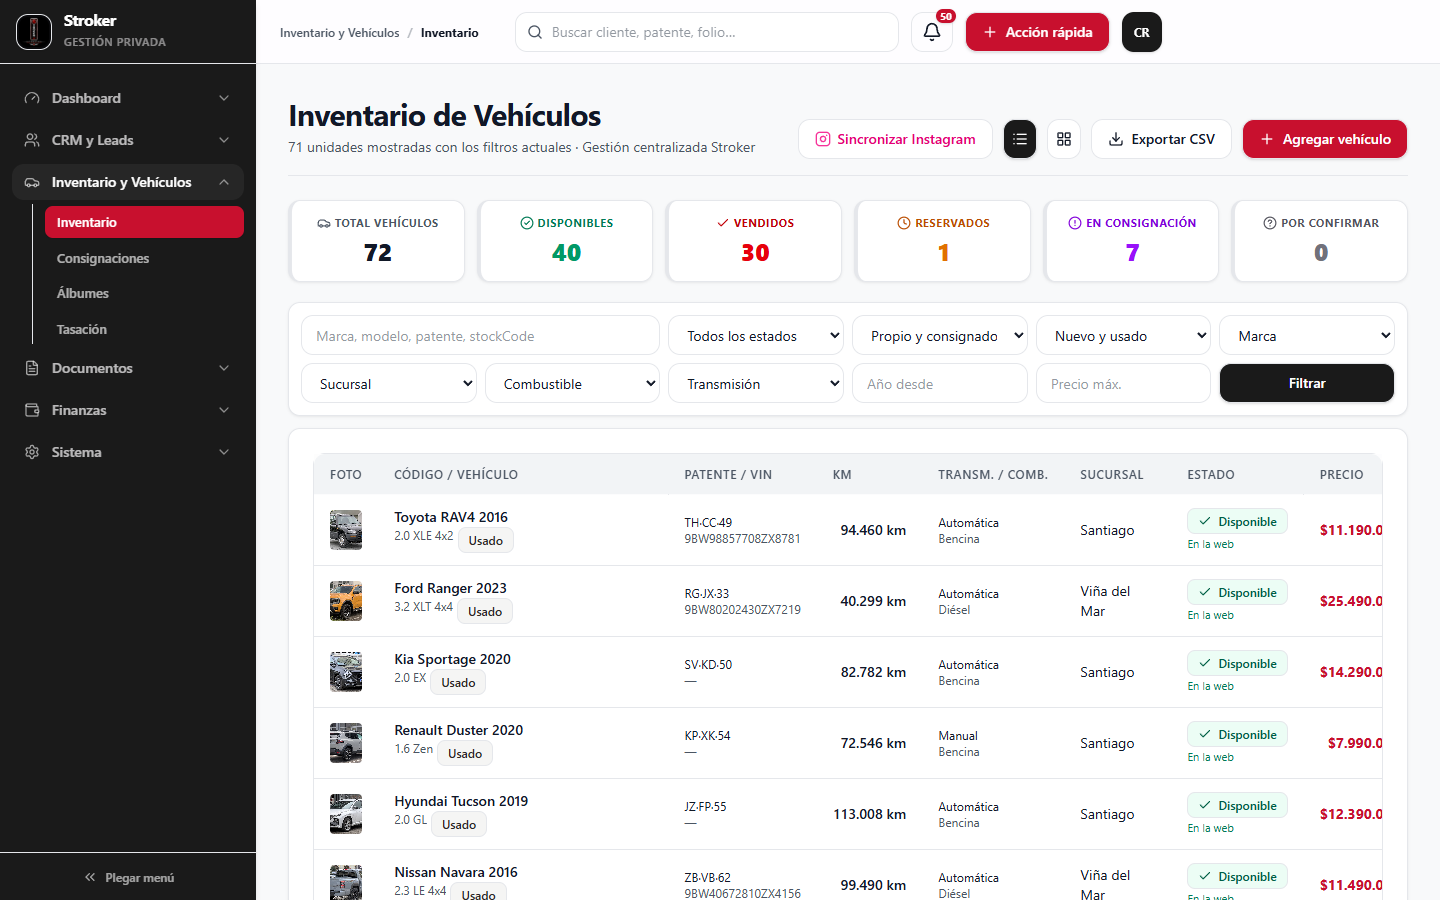
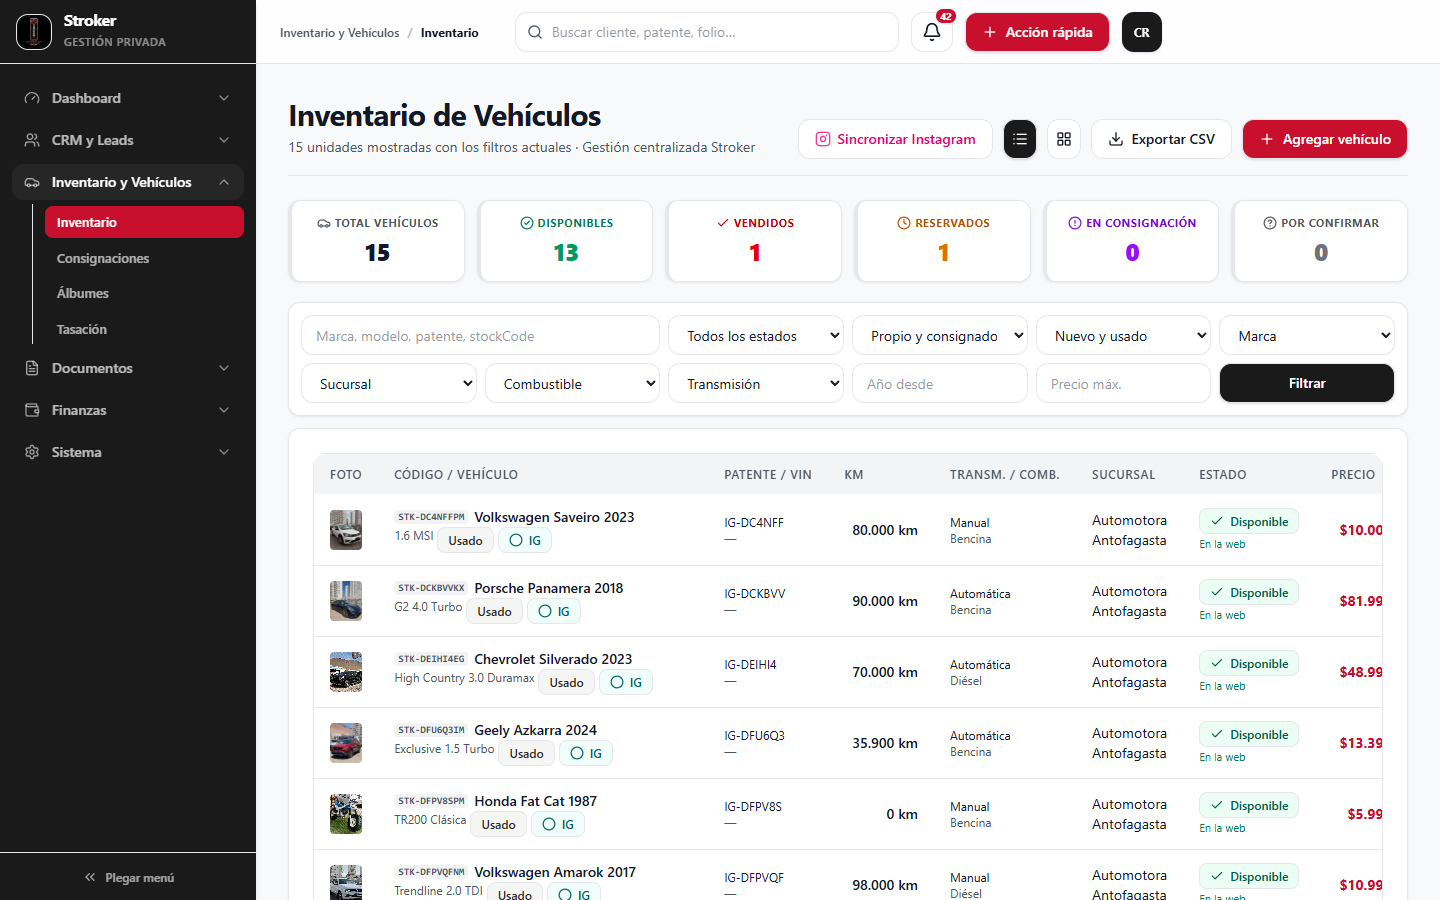
feat: show exactly 2 photos per vehicle in catalog and details

diff --git a/src/app/(web)/site.tsx b/src/app/(web)/site.tsx
@@ -133,14 +133,37 @@ export function Availability({ status }: { status: string }) {
 
 export function VehicleCard({ v, href }: { v: PublicVehicle; href: (p: string) => string }) {
   const isVendido = v.status === "VENDIDO";
+  const photo1 = v.photos[0]?.url || "/demo/placeholder.svg";
+  const photo2 = v.photos[1]?.url;
   return (
     <Link href={href(`/autos/${v.slug}`)} className={`card group overflow-hidden transition-all duration-200 hover:shadow-lg ${isVendido ? "opacity-90 grayscale-[25%]" : ""}`}>
-      <div className="relative">
+      <div className="relative aspect-[4/3] w-full overflow-hidden bg-surface-2">
         {/* eslint-disable-next-line @next/next/no-img-element */}
-        <img src={cover(v)} alt={`${v.brand} ${v.model} ${v.year}`} className="aspect-[4/3] w-full object-cover transition-transform duration-300 group-hover:scale-105" loading="lazy" />
+        <img
+          src={photo1}
+          alt={`${v.brand} ${v.model} ${v.year}`}
+          className={`absolute inset-0 size-full object-cover transition-all duration-300 ${photo2 ? "group-hover:opacity-0" : "group-hover:scale-105"}`}
+          loading="lazy"
+        />
+        {photo2 && (
+          // eslint-disable-next-line @next/next/no-img-element
+          <img
+            src={photo2}
+            alt={`${v.brand} ${v.model} ${v.year} - foto 2`}
+            className="absolute inset-0 size-full object-cover opacity-0 transition-opacity duration-300 group-hover:opacity-100 group-hover:scale-105"
+            loading="lazy"
+          />
+        )}
         <div className="absolute left-2.5 top-2.5 z-10"><Availability status={v.status} /></div>
+        {photo2 && (
+          <div className="absolute right-2.5 bottom-2.5 z-10 pointer-events-none">
+            <span className="rounded-md bg-black/60 backdrop-blur-sm text-white/90 px-2 py-0.5 text-[11px] font-medium tracking-tight shadow">
+              2 fotos
+            </span>
+          </div>
+        )}
         {isVendido && (
-          <div className="absolute inset-0 bg-black/40 flex items-center justify-center">
+          <div className="absolute inset-0 bg-black/40 flex items-center justify-center z-10">
             <span className="bg-red-600/90 text-white text-xs font-black px-3 py-1 rounded-md tracking-wider uppercase shadow-md">
               🔴 Unidad Vendida
             </span>

diff --git a/prisma/seed/seed-stroker.ts b/prisma/seed/seed-stroker.ts
@@ -161,9 +161,9 @@ export async function seedOfficialStrokerInventory() {
       vehicleId = created.id;
     }
 
-    // Gestionar fotos
+    // Gestionar fotos (máximo y exactamente 2 fotos oficiales por vehículo)
     await db.vehiclePhoto.deleteMany({ where: { vehicleId } });
-    const photos = v.localPhotos || [];
+    const photos = (v.localPhotos || []).slice(0, 2);
     for (let i = 0; i < photos.length; i++) {
       await db.vehiclePhoto.create({
         data: {
@@ -338,7 +338,11 @@ export async function purgeNonInstagramVehicles() {
     data: { vehicleId: null },
   });
 
-  // 5. Eliminar finalmente los vehículos no-IG
+  // 5. Eliminar finalmente los vehículos no-IG y fotos excedentes (> 2 fotos)
+  await db.vehiclePhoto.deleteMany({
+    where: { order: { gte: 2 } },
+  });
+
   const deleted = await db.vehicle.deleteMany({
     where: { id: { in: ids } },
   });

diff --git a/src/server/seed-stroker.ts b/src/server/seed-stroker.ts
@@ -157,9 +157,9 @@ export async function seedOfficialStrokerInventory() {
       vehicleId = created.id;
     }
 
-    // Gestionar fotos
+    // Gestionar fotos (máximo y exactamente 2 fotos oficiales por vehículo)
     await db.vehiclePhoto.deleteMany({ where: { vehicleId } });
-    const photos = v.localPhotos || [];
+    const photos = (v.localPhotos || []).slice(0, 2);
     for (let i = 0; i < photos.length; i++) {
       await db.vehiclePhoto.create({
         data: {
@@ -332,7 +332,11 @@ export async function purgeNonInstagramVehicles() {
     data: { vehicleId: null },
   });
 
-  // 5. Eliminar finalmente los vehículos no-IG
+  // 5. Eliminar finalmente los vehículos no-IG y fotos excedentes (> 2 fotos)
+  await db.vehiclePhoto.deleteMany({
+    where: { order: { gte: 2 } },
+  });
+
   const deleted = await db.vehicle.deleteMany({
     where: { id: { in: ids } },
   });

diff --git a/src/app/api/purge-non-ig/route.ts b/src/app/api/purge-non-ig/route.ts
@@ -9,8 +9,10 @@ export async function GET() {
     const beforeCount = await db.vehicle.count();
     const purged = await purgeNonInstagramVehicles();
     await seedOfficialStrokerInventory();
+    await db.vehiclePhoto.deleteMany({ where: { order: { gte: 2 } } });
     const afterCount = await db.vehicle.count();
     const igCount = await db.vehicle.count({ where: { source: "INSTAGRAM_OFFICIAL" } });
+    const totalPhotos = await db.vehiclePhoto.count();
 
     return NextResponse.json({
       success: true,
@@ -18,6 +20,8 @@ export async function GET() {
       purged,
       afterCount,
       igCount,
+      totalPhotos,
+      photosPerVehicle: afterCount > 0 ? (totalPhotos / afterCount).toFixed(1) : 0,
     });
   } catch (error: any) {
     return NextResponse.json({ success: false, error: error.message }, { status: 500 });

diff --git a/src/app/(web)/autos/[slug]/page.tsx b/src/app/(web)/autos/[slug]/page.tsx
@@ -272,7 +272,7 @@ export default async function VehiclePage({
           <div className="lg:col-span-3 space-y-8">
             {/* Galería de Fotografías Reales */}
             <div className="relative">
-              <Gallery photos={v.photos.map((p) => p.url)} alt={name} />
+              <Gallery photos={v.photos.slice(0, 2).map((p) => p.url)} alt={name} />
               {isVendido && (
                 <div className="absolute top-4 right-4 z-20">
                   <span className="rounded-xl bg-red-600 text-white font-black px-4 py-2 text-sm shadow-xl tracking-wider uppercase">

diff --git a/src/app/(web)/gallery.tsx b/src/app/(web)/gallery.tsx
@@ -8,7 +8,8 @@ export function Gallery({ photos, alt }: { photos: string[]; alt: string }) {
   const [isLightboxOpen, setIsLightboxOpen] = useState(false);
   const touchStartX = useRef<number | null>(null);
   const touchStartY = useRef<number | null>(null);
-  const list = photos.length ? photos : ["/demo/placeholder.svg"];
+  // Catálogo oficial: exactamente 2 fotos por vehículo
+  const list = (photos.length ? photos : ["/demo/placeholder.svg"]).slice(0, 2);
 
   // Navegación por teclado
   useEffect(() => {
